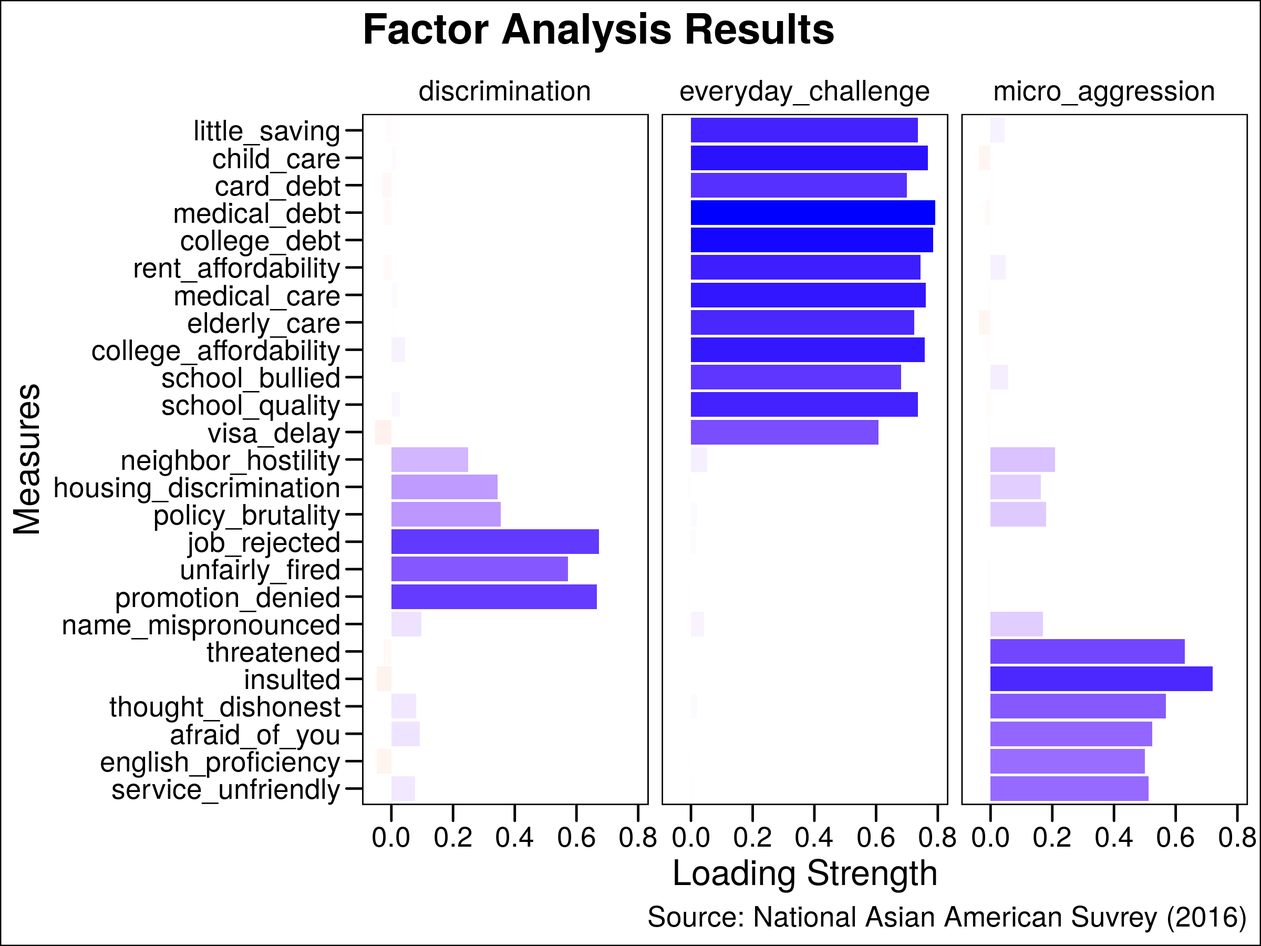
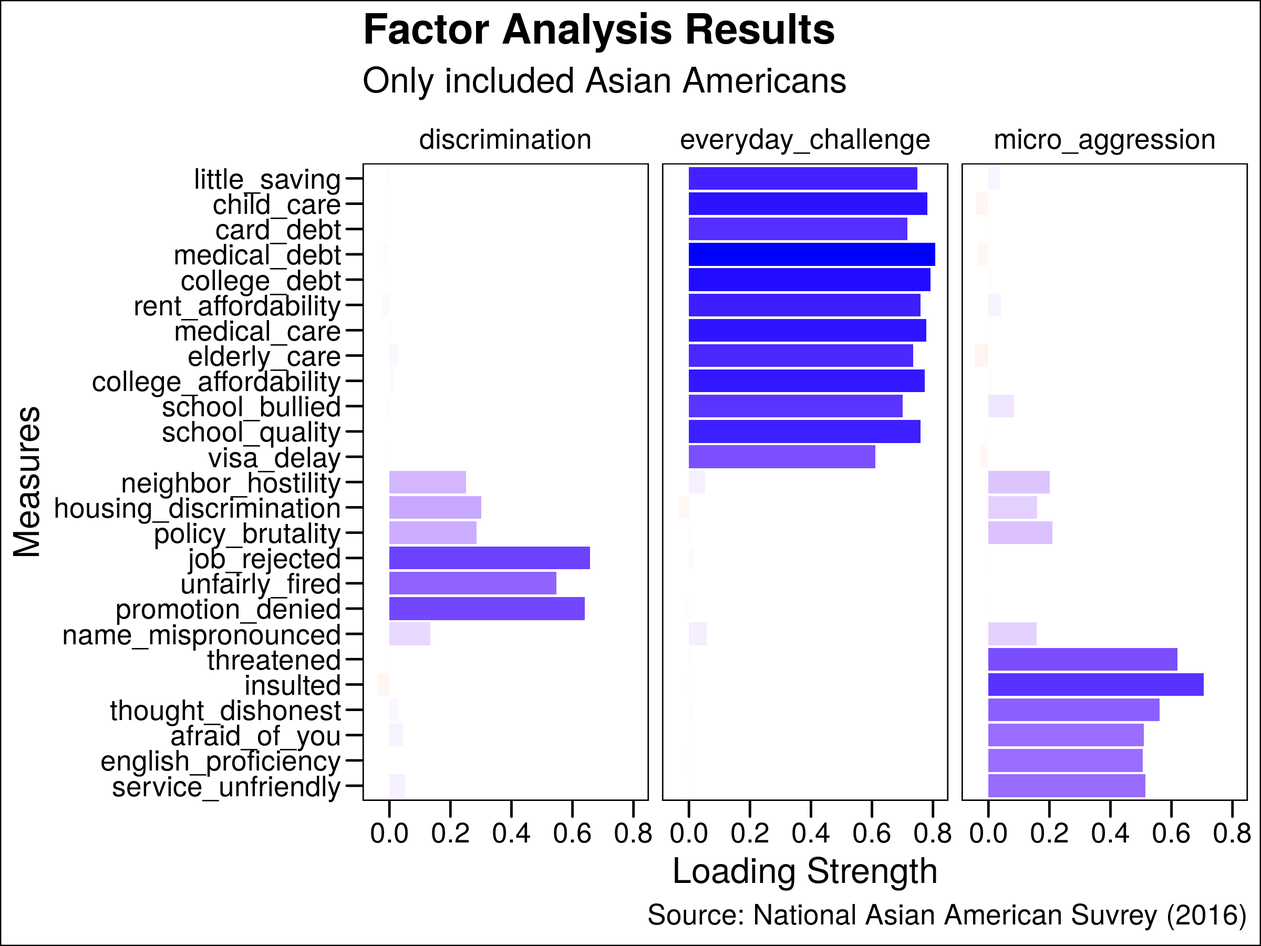
Recalculated index variables

diff --git a/README.md b/README.md
@@ -1,25 +1,25 @@
 # Measuring Lived Racial Experience
 **Systematically Measuring the Multi-dimensions of Lived Racial Experience**
 
-- The goal of this article is to document **how I cleaned, imputed, and ran a factor analysis on a large-scale survey data** ([2016 National Asian American Post-Election Survey](http://naasurvey.com/data/)) that measured the multi-dimensions of lived racial experience. This is part of the research which I have conducted with my advisor [Taeku Lee](https://www.law.berkeley.edu/our-faculty/faculty-profiles/taeku-lee/) (UC Berkeley) over the past two years (2018-2020). 
+- The goal of this article is to document **how I cleaned, imputed, and ran a factor analysis on a large-scale survey data** ([2016 National Asian American Post-Election Survey](http://naasurvey.com/data/)) that measured the multi-dimensions of lived racial experience. This is part of the research which I have conducted with my advisor [Taeku Lee](https://www.law.berkeley.edu/our-faculty/faculty-profiles/taeku-lee/) (UC Berkeley) over the past two years (2018-2020).
 
 
-## Motivation 
+## Motivation
 
-- This article does not intend to discuss why we view lived racial experience as a multidimensional concept and why we measure it using particular questions used in this particular survey. That discussion goes far beyond the scope of this article. 
+- This article does not intend to discuss why we view lived racial experience as a multidimensional concept and why we measure it using particular questions used in this particular survey. That discussion goes far beyond the scope of this article.
 - The main focus is **PRACTICAL**. Survey data is the bread and butter of opinion/behavioral research. However, most of the survey data is not saved in a format that is suitable for statistical analysis. Therefore, researchers and practitioners spend numerous hours cleaning up the data. Over the past few years, I have come to realize that patterns emerge when cleaning survey data, and I want to share some of my tricks for exploiting these patterns, as they can be helpful for researchers and practitioners. In the near future, I plan to develop an R package that helps with preprocessing survey data, so, please feel free to create issues on the Git repository if you have difficulties applying my code to your project.
 
 
 ## Workflow
 
-In this section, I document how I preprocessed and analyzed the 2016 National Asian American Survey (NAAS) data step-by-step. I also provide the R code used in each step. The `.Rmd` extension indicates an `R markdown file`. 
+In this section, I document how I preprocessed and analyzed the 2016 National Asian American Survey (NAAS) data step-by-step. I also provide the R code used in each step. The `.Rmd` extension indicates an `R markdown file`.
 
 
-### 01_Cleaning Data [[01_data_cleaning.Rmd](https://github.com/jaeyk/measuring-lived-racial-experience/blob/master/code/01_data_cleaning.Rmd)] 
+### 01_Cleaning Data [[01_data_cleaning.Rmd](https://github.com/jaeyk/measuring-lived-racial-experience/blob/master/code/01_data_cleaning.Rmd)]
 
-- **Tidying:** I assume that your survey data is saved in [a tidy format](https://cran.r-project.org/web/packages/tidyr/vignettes/tidy-data.html). Variables are columns and rows are observations. If this is not the case, turn your data into a tidy format. The `tidyr` package provides many useful tools to do this easily.  
-- **Columns:** The first thing to do is to select the columns or variables that you want to use for the analysis. In case of the NAAS data, the original data has 406 variables; however, I did not need most of them. Most survey data, especially for large surveys, fall into this category. These surveys are expensive to collect and thus, they contain information that is intended to be useful to a large number of and diverse users. The result of this may be that there many questions that have nothing to do with your particular research. Don’t allow these variables to take up your precious memory. 
-- In addition, when selecting columns, it is useful to make a comment on what they are about. As you can see below, most questions are named based on the order in which they appeared in the questionnaire. This is not especially informative, and it means that you will likely have to go back and forth between the codebook and the survey data. Save yourself these extra steps by commenting clearly on the content. 
+- **Tidying:** I assume that your survey data is saved in [a tidy format](https://cran.r-project.org/web/packages/tidyr/vignettes/tidy-data.html). Variables are columns and rows are observations. If this is not the case, turn your data into a tidy format. The `tidyr` package provides many useful tools to do this easily.
+- **Columns:** The first thing to do is to select the columns or variables that you want to use for the analysis. In case of the NAAS data, the original data has 406 variables; however, I did not need most of them. Most survey data, especially for large surveys, fall into this category. These surveys are expensive to collect and thus, they contain information that is intended to be useful to a large number of and diverse users. The result of this may be that there many questions that have nothing to do with your particular research. Don’t allow these variables to take up your precious memory.
+- In addition, when selecting columns, it is useful to make a comment on what they are about. As you can see below, most questions are named based on the order in which they appeared in the questionnaire. This is not especially informative, and it means that you will likely have to go back and forth between the codebook and the survey data. Save yourself these extra steps by commenting clearly on the content.
 
 ```R
 df <- data %>%
@@ -27,27 +27,27 @@ df <- data %>%
 
     ## Covariates
 
-    race, # race 
+    race, # race
     pid4, # party ID
-    q10_2b, # education level 
+    q10_2b, # education level
     q10_15, # income level
     q10_18, # age
-    s9a, # states 
-    forborn, # foreign born 
-    citizen, # citizen 
+    s9a, # states
+    forborn, # foreign born
+    citizen, # citizen
 ```
 
-- **Rows** The next step is to take a close look at rows or responses. Like column names, these rows are also often not ready for analysis. For instance, if a question is measured on a 1–5 Likert scale, then the responses would look like “1. Strongly negative,” “2. Somewhat negative,” and so on. The problem with this is that in the end, we only want the numbers from these responses to conduct a statistical analysis. Thankfully, there is an easy solution. Focus on the string pattern. From these responses, we only need numbers, especially the first group (e.g., `1` or `99`). 
+- **Rows** The next step is to take a close look at rows or responses. Like column names, these rows are also often not ready for analysis. For instance, if a question is measured on a 1–5 Likert scale, then the responses would look like “1. Strongly negative,” “2. Somewhat negative,” and so on. The problem with this is that in the end, we only want the numbers from these responses to conduct a statistical analysis. Thankfully, there is an easy solution. Focus on the string pattern. From these responses, we only need numbers, especially the first group (e.g., `1` or `99`).
 - The next step is to take a close look at rows or responses. Like column names, these rows are also often not ready for analysis. For instance, if a question is measured on a 1–5 Likert scale, then the responses would look like “1. Strongly negative,” “2. Somewhat negative,” and so on. The problem with this is that in the end, we only want the numbers from these responses to conduct a statistical analysis. Thankfully, there is an easy solution. Focus on the string pattern. From these responses, we only need numbers, especially the first group (e.g., `1` or `99`). You can extract them by using [regular expression](https://en.wikipedia.org/wiki/Regular_expression) or defining a search pattern. Then you can create a function that uses this search pattern to extract the first capturing number group and apply the function to every column in the data. This trick makes a huge difference if you deal with data from a big survey. Find patterns and exploit them: this is the key point I will keep repeating throughout the document.
 
 ```{R}
-    # Create a function for capturing the first number group from survey responses 
-    
+    # Create a function for capturing the first number group from survey responses
+
     return_numeric <- function(x) {as.numeric(gsub("([0-9]+).*$", "\\1", x))} # regular expression
-    
+
     recoded <- df %>%
-      select_if(negate(is.character)) %>% # exclude the only character variable 
-      apply(2, return_numeric) %>% # apply the function to every column in the subsetted data 
+      select_if(negate(is.character)) %>% # exclude the only character variable
+      apply(2, return_numeric) %>% # apply the function to every column in the subsetted data
       as.data.frame() # turn it into a dataframe (otherwise, it's a matrix)
 ```
 
@@ -61,26 +61,26 @@ recoded[recoded == 9] <- NA
 - Scaling is another important problem. A survey may have mixed scales. While some questions provide five choices, others may have only binary choices (“Yes” or “No”). These inconsistencies make measuring covariances among them less accurate and interpreting their regression coefficients difficult. You can rescale them on the identical normalized scale (0–1) using the `rescale() function` from the `scales` package.
 
 ```{R}
-# Re-scale ordinal responses 
+# Re-scale ordinal responses
 
 rescaled <- recoded %>%
   dplyr::select(starts_with("q")) %>% # starts with q
   apply(2, scales::rescale) %>%
-  as.data.frame() 
+  as.data.frame()
 ```
 
-- Another problem occurs when replacing responses in binary choice questions. In the data I used for this project, I found that `1` corresponds to “Yes” and `2` corresponds to “No” in binary questions. In my view, these variables are better treated as dummy variables where `1` corresponds to “Yes” and `0` corresponds to “No.” This way we can find important patterns in the data more easily. For instance, under this condition, the means of these questions reveal the percentages of agreement among the survey respondents about the survey constructs. To do this, you can use the same trick I demonstrated above. First, create a function that recodes binary responses. Second, apply the function to each variable in the data using the `apply function()`. This custom function + `the apply() function` combination is useful for reducing redundancy in data cleaning. 
+- Another problem occurs when replacing responses in binary choice questions. In the data I used for this project, I found that `1` corresponds to “Yes” and `2` corresponds to “No” in binary questions. In my view, these variables are better treated as dummy variables where `1` corresponds to “Yes” and `0` corresponds to “No.” This way we can find important patterns in the data more easily. For instance, under this condition, the means of these questions reveal the percentages of agreement among the survey respondents about the survey constructs. To do this, you can use the same trick I demonstrated above. First, create a function that recodes binary responses. Second, apply the function to each variable in the data using the `apply function()`. This custom function + `the apply() function` combination is useful for reducing redundancy in data cleaning.
 
 ```{R}
-# Function to recode binary responses 
+# Function to recode binary responses
 
 reverse_dummy <- function(data){
   data[data == 1] <- 2
   data[data == 0] <- 1
   data[data == 2] <- 0
   return(data)
-} 
- 
+}
+
 ```
 
 - When the cleaning process is done, save the file as “01_cleaned.csv” in the `processed_data` subdirectory within your project director. Separate your raw data from processed data and your code from your output. In general, input, process (computation), and output should be separated from each other. When you work with other people or need to share your project with someone else, this little structure is a great help for them in navigating the many files you have created. Don’t underestimate the number of files you will end up creating. The longer you work on the project, the more files you will produce—sort them earlier rather than later. Also, don’t forget to name files in an informative way (numbering plus for the research stage that is complete).
@@ -88,14 +88,14 @@ reverse_dummy <- function(data){
 
 ### 02_Imputing Data [[02_imputation.Rmd](https://github.com/jaeyk/measuring-lived-racial-experience/blob/master/code/02_imputation.Rmd)]
 
-- Even if a survey’s data is collected by probability sampling (a sampling method that involves random selection), it does not imply that the data is representative (=sampling estimates are unbiased estimators of population parameters). The survey might have failed to recruit as many survey respondents as was planned. If this is the case, we may need to weight the data. In addition, the respondents might have missed or not responded to all the stated questions. If that is the case, we may need to impute data. This missing data problem arises because the data collection process is not entirely under the control of the people who design and implement a survey. Missing data is bound to occur, and we should pay attention to it, especially whether the pattern of its occurrence is random or systematic. 
-- Usually, big surveys provide their weights. From the user end, a more frequent problem is imputation: missing responses for questions of interest. 
-- An easy solution is to use listwise deletion (`na.rm = TRUE`) or just ignore these observations. This works only if these observations are missing completely at random (MCAR). This is a strong assumption, as it happens very rarely. The `nanair package` provides many useful functions for inspecting missing data. I used the `miss_var_summary() function` from this package to inspect the missing pattern and visualized it using ggplot2. The bar plot (Figure 1) shows that missing values are concentrated in relation to particular variables and, thus, the missing pattern is unlikely to be MCAR. In the plot, AAPI stands for Asian American Pacific Islanders. These group categories are self-identified. I also conducted a Little’s test, a global test for MCAR, which confirms that the chance for MCAR is extreme (low p-value). Therefore, listwise deletion is discouraged as an option. 
+- Even if a survey’s data is collected by probability sampling (a sampling method that involves random selection), it does not imply that the data is representative (=sampling estimates are unbiased estimators of population parameters). The survey might have failed to recruit as many survey respondents as was planned. If this is the case, we may need to weight the data. In addition, the respondents might have missed or not responded to all the stated questions. If that is the case, we may need to impute data. This missing data problem arises because the data collection process is not entirely under the control of the people who design and implement a survey. Missing data is bound to occur, and we should pay attention to it, especially whether the pattern of its occurrence is random or systematic.
+- Usually, big surveys provide their weights. From the user end, a more frequent problem is imputation: missing responses for questions of interest.
+- An easy solution is to use listwise deletion (`na.rm = TRUE`) or just ignore these observations. This works only if these observations are missing completely at random (MCAR). This is a strong assumption, as it happens very rarely. The `nanair package` provides many useful functions for inspecting missing data. I used the `miss_var_summary() function` from this package to inspect the missing pattern and visualized it using ggplot2. The bar plot (Figure 1) shows that missing values are concentrated in relation to particular variables and, thus, the missing pattern is unlikely to be MCAR. In the plot, AAPI stands for Asian American Pacific Islanders. These group categories are self-identified. I also conducted a Little’s test, a global test for MCAR, which confirms that the chance for MCAR is extreme (low p-value). Therefore, listwise deletion is discouraged as an option.
 
 **Figure 1. Missing Pattern in the NAAS Data**
 ![](<https://github.com/jaeyk/measuring-racial-lived-experience/blob/master/outputs/missing_rate.png>)
 
-- In this case, I took a multiple imputation approach. Basically, I recovered (imputed) missing values based on the observed data. I did so by making simulations of these imputed values in order to garner some measures of their uncertainty. This method was pioneered by [Donald Rubin](https://statistics.fas.harvard.edu/people/donald-b-rubin) in the 1970s, and many packages in R help to implement this method pretty easily. 
+- In this case, I took a multiple imputation approach. Basically, I recovered (imputed) missing values based on the observed data. I did so by making simulations of these imputed values in order to garner some measures of their uncertainty. This method was pioneered by [Donald Rubin](https://statistics.fas.harvard.edu/people/donald-b-rubin) in the 1970s, and many packages in R help to implement this method pretty easily.
 - In this project, I used the `mice package` developed by [Stef van Buuren](https://stefvanbuuren.name/).  The following code shows how the imputation model is set up. I comment on each argument to make it explicit how the model is set up. For instance, the `m argument` refers to the number of imputations, and I set it to `5`. This way I do not need to go back to the package documentation to recall what each argument is for. Also, readers can easily comprehend how I approach the imputation problem. More commenting and increased transparency create a win-win situation.
 
 ```{r}
@@ -103,9 +103,9 @@ reverse_dummy <- function(data){
 imp <- mice(scaled,
      seed = 1234, # for reproducibility
      m = 5, # the number of imputations
-     maxit = 10, # the max numbe of iterations 
+     maxit = 10, # the max numbe of iterations
      method = "pmm", # predictive mean method
-     print = FALSE) 
+     print = FALSE)
 
 ```
 
@@ -114,7 +114,7 @@ imp <- mice(scaled,
 **Figure 2. The KDE for the Marginal Distribution of the Imputed (Red) and the Observed (Blue) Values**
 ![](<https://github.com/jaeyk/measuring-lived-racial-experience/blob/master/outputs/imputed_density_plot.png>)
 
-- Another important task is deciding whether selecting one imputed piece of data over another is consequential. The `complete() function` pools the imputed data, but a question remains about which one should be selected. In this project, I created five imputed datasets. I built a simple regression model that examines associations between survey items related to the everyday challenge component of racial experience. The `pool() function` from the `mice package` is Donald Rubin’s rule test. The test “averages the estimates of the complete model” and “computes the total variance over the repeated analysis” (for more information, see [this function documentation](https://rdrr.io/cran/mice/man/pool.html)). The summary test result shows that the p-values for the regression coefficients are extremely small. Selecting one model over the other makes little difference for the model fit. Rubin’s rule test assumes that the distribution of the data follows a normal distribution. I checked this assumption using the Shapiro-Wilk test.   
+- Another important task is deciding whether selecting one imputed piece of data over another is consequential. The `complete() function` pools the imputed data, but a question remains about which one should be selected. In this project, I created five imputed datasets. I built a simple regression model that examines associations between survey items related to the everyday challenge component of racial experience. The `pool() function` from the `mice package` is Donald Rubin’s rule test. The test “averages the estimates of the complete model” and “computes the total variance over the repeated analysis” (for more information, see [this function documentation](https://rdrr.io/cran/mice/man/pool.html)). The summary test result shows that the p-values for the regression coefficients are extremely small. Selecting one model over the other makes little difference for the model fit. Rubin’s rule test assumes that the distribution of the data follows a normal distribution. I checked this assumption using the Shapiro-Wilk test.
 
 ```
          	estimate   std.error  statistic        df      p.value
@@ -135,12 +135,12 @@ q5_7_l      0.02228526 0.04290861 0.5193656  5.154995 6.250292e-01
 - I extracted the first imputed dataset and saved it as "imputed.csv" in the processed_data subdirectory.
 
 
-### 03_Factor Analysis [[03_factor_analysis.Rmd](https://github.com/jaeyk/measuring-lived-racial-experience/blob/master/code/03_factor_analysis.Rmd)] 
+### 03_Factor Analysis [[03_factor_analysis.Rmd](https://github.com/jaeyk/measuring-lived-racial-experience/blob/master/code/03_factor_analysis.Rmd)]
 
 - I selected the variables related to the multi-dimensions of lived racial experience from the survey. This time, I renamed these variable names using the `rename function()` from the `dplyr` package, as they will appear in the plots I will soon create.
 
 ```{R}
-# Renaming these variables 
+# Renaming these variables
 
 vars <- vars %>%
   rename(# micro-agression
@@ -153,51 +153,51 @@ vars <- vars %>%
          name_mispronounced = q5_1_i,
 ```
 
-- Taeku and I assumed that there are three dimensions of lived racial experience. We do not observe these constructs from the survey data. What we have instead is a battery of survey items that might hang together and map onto the assumed conceptual framework. We can examine this pattern by calculating the covariance between survey items of interest. Factor analysis, by definition, is one way to perform this task, because factors are latent/unobserved/low dimensions in data. 
-- Let’s first check whether the assumption about the number of factors is valid. The `fa.parallel` function from the `psyche package` compares the eigenvalues of the correlation matrix ([the metric of variance explained]((https://sakaluk.wordpress.com/2016/05/26/11-make-it-pretty-scree-plots-and-parallel-analysis-using-psych-and-ggplot2/))) from the observed data with the eigenvalues generated from random data. In Figure 3, the Y-axis indicates eigenvalues and the X-indicates the number of possible factors from 1 to the maximum. Here, you can easily see that after three factors, the Y value drops immediately. 
-- I set the `fm argument` in the `fa.parallel` function to “ml” (maximum likelihood estimation) to use the common factor model, which assumes that covariance between items is explained by both “shared latent causes” and “unexplained variable-specific variance” (for more information, see this [link](https://psu-psychology.github.io/psy-597-SEM/06_factor_models/factor_models.html)). The result (again, an abrupt change in the slope) shows that assuming three factors is plausible.  
+- Taeku and I assumed that there are three dimensions of lived racial experience. We do not observe these constructs from the survey data. What we have instead is a battery of survey items that might hang together and map onto the assumed conceptual framework. We can examine this pattern by calculating the covariance between survey items of interest. Factor analysis, by definition, is one way to perform this task, because factors are latent/unobserved/low dimensions in data.
+- Let’s first check whether the assumption about the number of factors is valid. The `fa.parallel` function from the `psyche package` compares the eigenvalues of the correlation matrix ([the metric of variance explained]((https://sakaluk.wordpress.com/2016/05/26/11-make-it-pretty-scree-plots-and-parallel-analysis-using-psych-and-ggplot2/))) from the observed data with the eigenvalues generated from random data. In Figure 3, the Y-axis indicates eigenvalues and the X-indicates the number of possible factors from 1 to the maximum. Here, you can easily see that after three factors, the Y value drops immediately.
+- I set the `fm argument` in the `fa.parallel` function to “ml” (maximum likelihood estimation) to use the common factor model, which assumes that covariance between items is explained by both “shared latent causes” and “unexplained variable-specific variance” (for more information, see this [link](https://psu-psychology.github.io/psy-597-SEM/06_factor_models/factor_models.html)). The result (again, an abrupt change in the slope) shows that assuming three factors is plausible.
 
 **Figure 3. Parallel Analysis Result**
 ![](<https://github.com/jaeyk/measuring-lived-racial-experience/blob/master/outputs/scree_plot.png>)
 
-- After validating the `nfactors = 3` assumption, I ran the factor analysis using the observed data. I assume that these factors are orthogonal by setting the `rotate  = ‘oblimin’.` For interpretation, this means the factors show the correlations between question items and factors (for more information, see this [link](https://psu-psychology.github.io/psy-597-SEM/06_factor_models/factor_models.html#looking-under-the-hood-of-the-fa-model)). 
+- After validating the `nfactors = 3` assumption, I ran the factor analysis using the observed data. I assume that these factors are orthogonal by setting the `rotate  = ‘oblimin’.` For interpretation, this means the factors show the correlations between question items and factors (for more information, see this [link](https://psu-psychology.github.io/psy-597-SEM/06_factor_models/factor_models.html#looking-under-the-hood-of-the-fa-model)).
 
 ```{r}
 
-# Factor analysis 
-factor_analysis <- fa(vars, 
-                  nfactors = 3, # three factors  
-                  rotate = 'oblimin', 
+# Factor analysis
+factor_analysis <- fa(vars,
+                  nfactors = 3, # three factors
+                  rotate = 'oblimin',
                   fm = 'ml') # ML estimation
 
 ```
 
-In this section, the goal is to show how I visualized the relationship between each question item and three factors. I did this in two steps. I first extracted factor loadings (correlation coefficients between observed data and factors) and then put them into a dataframe. 
+In this section, the goal is to show how I visualized the relationship between each question item and three factors. I did this in two steps. I first extracted factor loadings (correlation coefficients between observed data and factors) and then put them into a dataframe.
 
 ```{R}
 
-# Extract factor loadings 
+# Extract factor loadings
 factor_frame <- factor_analysis$loadings %>%
                  unclass() %>%
                  as.data.frame()
 
 # Putting them into a data frame
-factor_df <- data.frame(Measures = rownames(factor_frame), 
+factor_df <- data.frame(Measures = rownames(factor_frame),
               everyday_challenge = factor_frame$ML1,
               micro_aggression = factor_frame$ML2,
               discrimination = factor_frame$ML3)
 
 ```
 
-Next, I visualized the relationship between factor loadings and the three factors (see Figure 4). 
+Next, I visualized the relationship between factor loadings and the three factors (see Figure 4).
 
 **Figure 4. Factor Analysis Result**
 ![](<https://github.com/jaeyk/measuring-lived-racial-experience/blob/master/outputs/factor_analysis.png>)
 
-Finally, I created three index variables based on questions related to each factor and then displayed how the three dimensions of lived racial experience vary across racial groups (see Figure 5).   
+Finally, I created three index variables, weighted avergae responses, by multiplying the average responses of questions related to each factor with their factor loadings. The red point plot (weighted average respones) have narrower confidence intervals (or more reliable) than the blue point plot (non-weighted average responses) in Figure 5. 
 
-**Figure 5. Three Dimensions of Lived Racial Experience Vary across Racial Groups**
-![](<https://github.com/jaeyk/measuring-lived-racial-experience/blob/master/outputs/factor_analysis_by_race.png>)
+**Figure 5. Three Dimensions of Lived Racial Experience**
+![](<https://github.com/jaeyk/measuring-lived-racial-experience/blob/master/outputs/weighted_responses.png>)
 
 
 ## Conclusion
